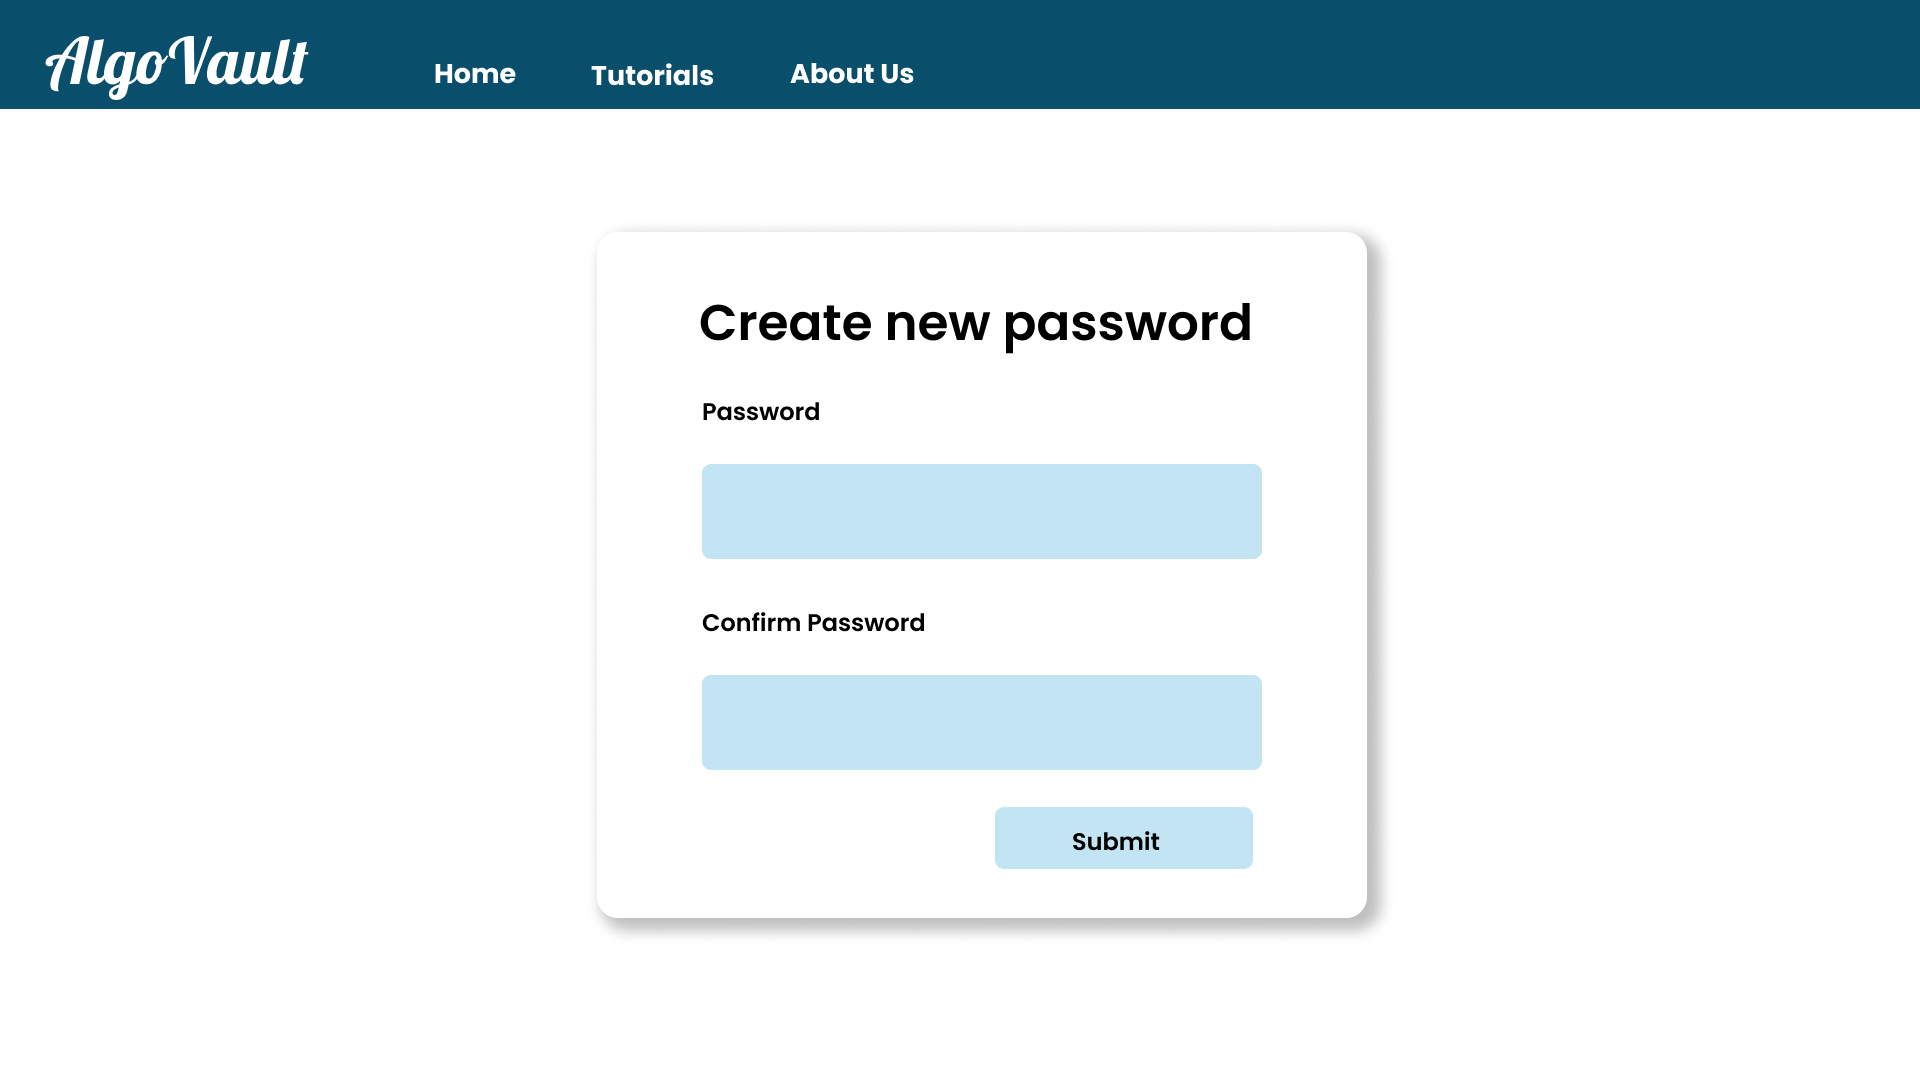
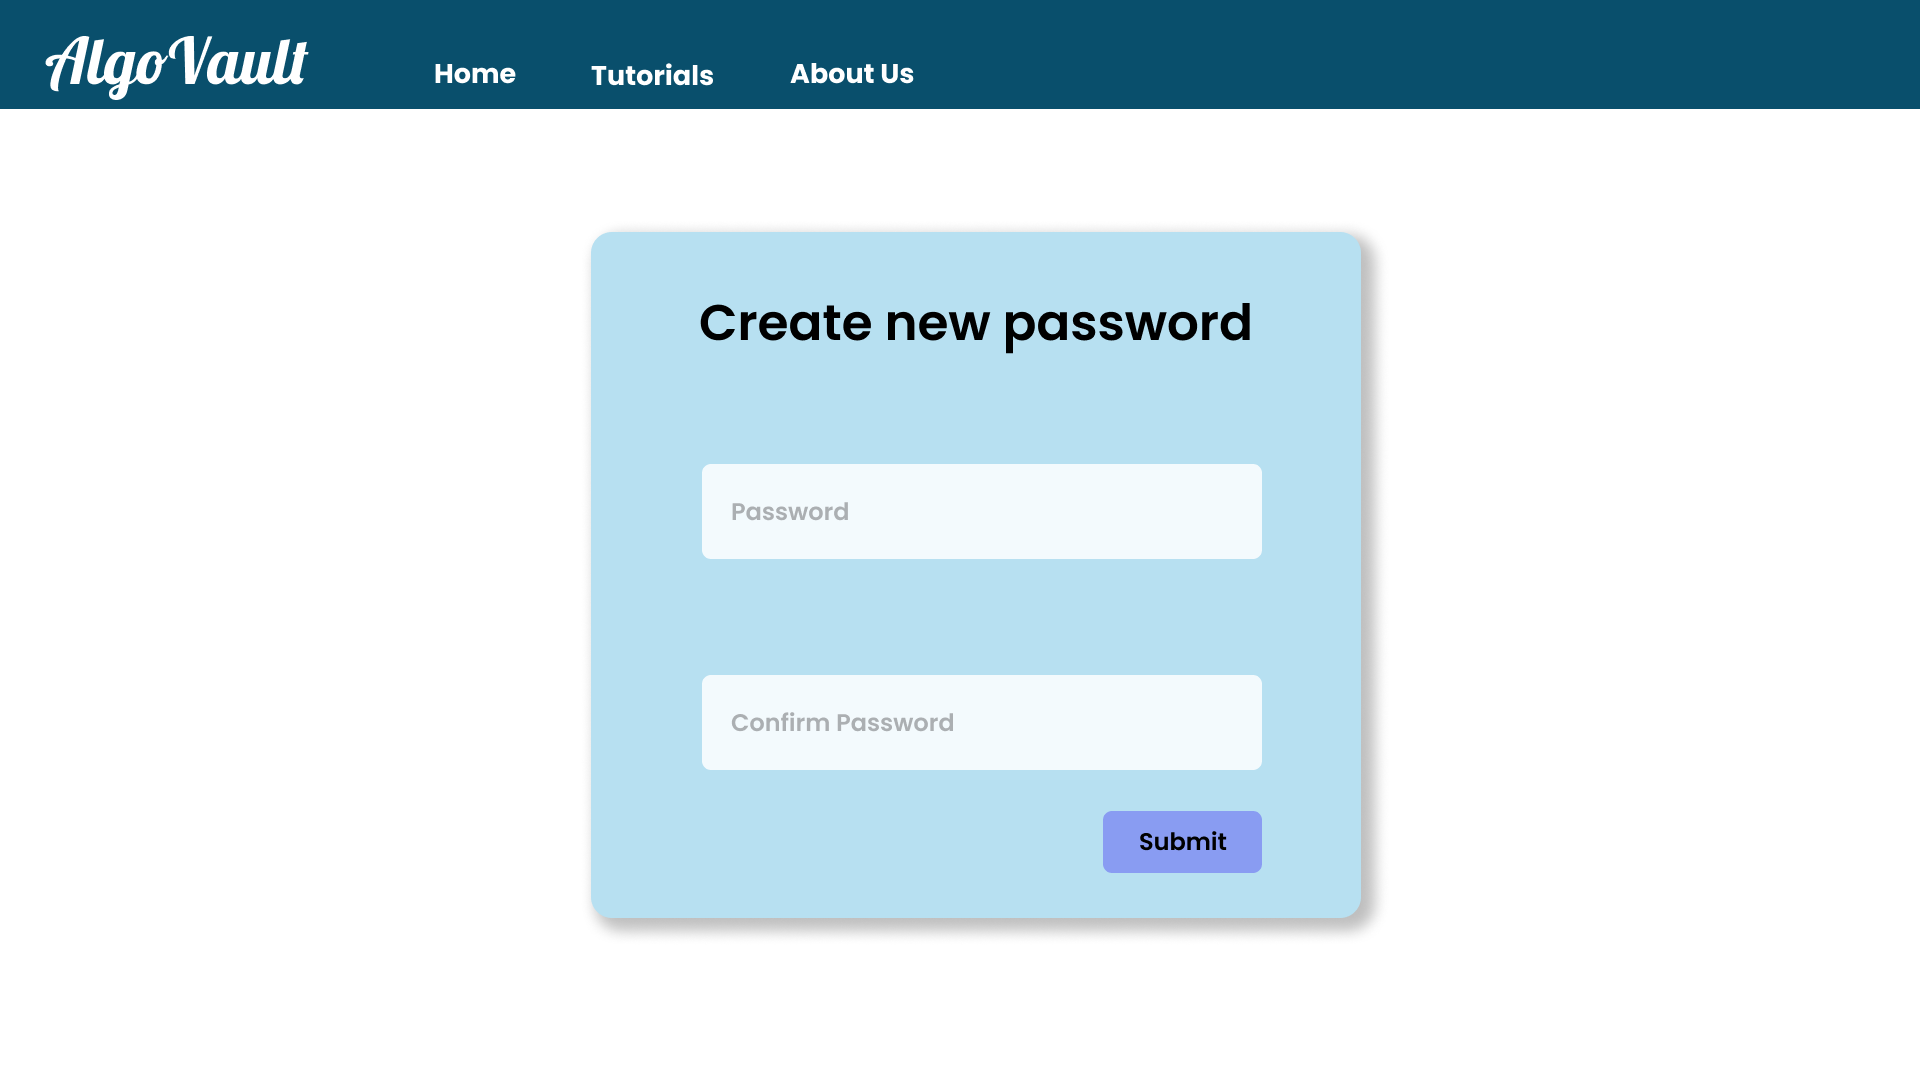
UI&Frontend is updated

Changed region(s): [[0.2812, 0.2139, 0.7188, 0.8556]]

diff --git a/Frontend raw design/confirmresetpass.html b/Frontend raw design/confirmresetpass.html
@@ -44,9 +44,8 @@
             <a class="nav-link" href="#">About Us</a>
         </li>
         </ul>
-        <form class="d-flex">
-            <button class="bt" type="submit">Register</button>
-            </form>
+ 
+        
     </div>
  
     </div>
@@ -58,20 +57,18 @@
     <div class="login-form">
         <form action="#">
             <div class="form-name">
-                <span>Log In</i></span>
-            </div>
-            <div class="form-group">
-                <input type="text" class="form-control item" id="username" placeholder="Username/Email">
+                <span>Create New Password</i></span>
             </div>
             <div class="form-group">
                 <input type="password" class="form-control item" id="password" placeholder="Password">
             </div>
             <div class="form-group">
-                <button type="button" class="btn login-account ">Login</button>
+                <input type="password" class="form-control item" id="password" placeholder="Confirm Password">
             </div>
-            <div class="form-group ">
-                <a href="#">Forgot your password?</a>
+            <div class="form-group">
+                <button type="button" class="btn login-account ">Submit</button>
             </div>
+           
         </form>
        
     </div>

diff --git a/Frontend raw design/confirmreserpass.css b/Frontend raw design/confirmreserpass.css
@@ -16,7 +16,7 @@ body {
     padding: 40px 60px;
   border-radius: 12px;
     box-shadow: 9px 8px 16px 5px rgba(0, 0, 0, 0.34);
-    margin-top: 5vh;
+    margin-top: 10vh;
 }
 
 .login-form .form-name{
@@ -25,13 +25,13 @@ body {
    
     height: 100px;
     margin: auto;
-    margin-bottom: 0px;
-    line-height: 54px;
+    margin-bottom: 2.5vh;
+
     font-family: 'Libre Baskerville', serif;
     font-style: normal;
-    font-weight: 400;
-    font-size: 2.5rem;
-    line-height: 54px;
+    font-weight: 400!important;
+    font-size: 2.2rem;
+   
 }
 
 .login-form .item{
